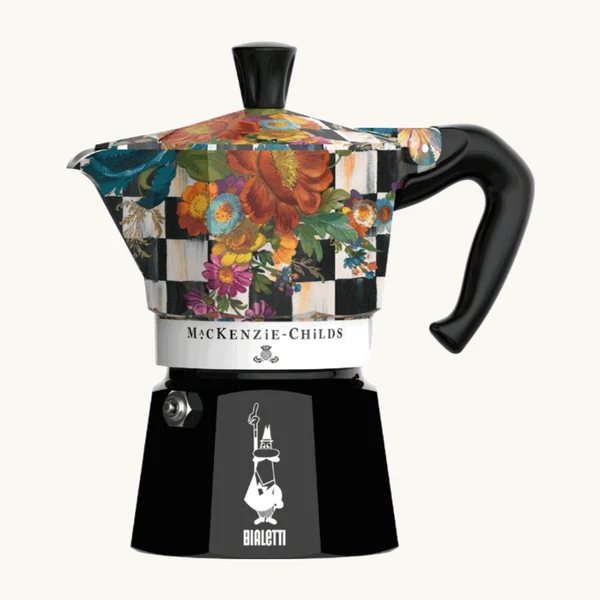
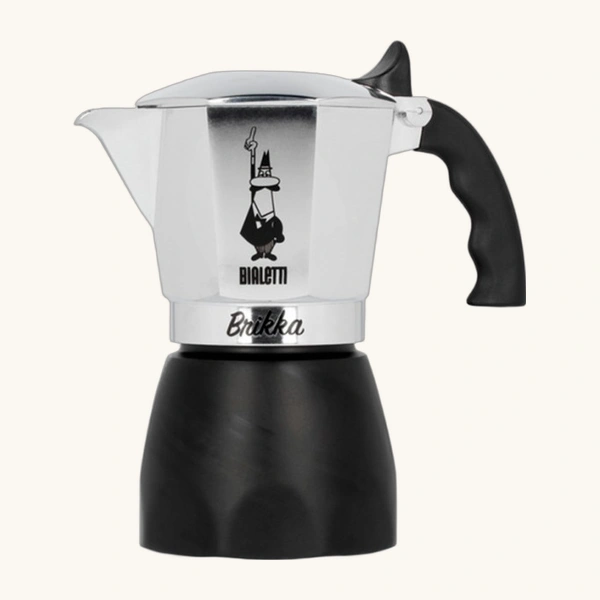
fix(gear): replace Bialetti with classic standard edition and Turin DF54 with fully assembled packshot (v1.20.7)

diff --git a/.agents/STATUS.md b/.agents/STATUS.md
@@ -25,6 +25,19 @@
    - Køre `npx cap sync android` og teste i Android Studio.
    - Pushe til GitHub, så Vercel automatisk deployer til `https://espressoflow-app.vercel.app/`.
 
+### 2026-10-20 -- Etape 77: Klassisk Standard Bialetti Moka Express & Fuldt Samlet Turin DF54 (v1.20.7)
+- **Klassisk Standard Bialetti (Farvel til Blomsterprint):**
+  - Erstattet MacKenzie-Childs blomsterudgaver med de originale, klassiske sølv-aluminium 8-kantede Bialetti-kander med original "L'omino coi baffi"-maskot (`bialetti-moka-3cup.webp` og `bialetti-moka-6cup.webp`).
+  - Opdateret Bialetti Brikka 4-Cup til autoriseret standardmodel med cremakolonne (`bialetti-brikka-4cup.webp`).
+- **Fuldt Samlet Turin DF54:**
+  - Erstattet usamlet drejeskive-foto med officielt 2200x2200 studio packshot, fuldt monteret med trætop, bælg, doseringskop i gaffel og mikrometerskive (`turin-df54.webp`).
+- **Audit Suite & Android:**
+  - `public/gear-audit.html` synkroniseret.
+  - `npm run build` passerer 100% (exit 0).
+  - Android synkroniseret via `npx cap sync android`.
+
+---
+
 ### 2026-10-20 -- Etape 76: Autentisk Decent DE1 med Drypbakke & BiRefNet Neural Matting (v1.20.6)
 - **Decent DE1 Producent-Packshot med Drypbakke:**
   - Erstattet "svævende" skelet-render af Decent DE1 uden drypbakke med officielt packshot indeholdende komplet bundkar, drypbakke med slids-stålrist, portafilter, damparm og monteret Android-tablet med aktive flow/trykkurver (`public/images/gear/machines/decent-de1.webp`).

diff --git a/CHANGELOG.md b/CHANGELOG.md
@@ -2,6 +2,17 @@
 
 Alle væsentlige ændringer og milepæle i Flowbean dokumenteres i dette dokument i henhold til Semantisk Versionering (SemVer).
 
+## [1.20.7] - 2026-10-20
+### Etape 77: Klassisk Standard Bialetti Moka Express & Fuldt Samlet Turin DF54
+- **Klassisk Standard Bialetti (Fjernelse af MacKenzie-Childs Blomsterudgaver):**
+  - **Bialetti Moka Express 3-Cup:** Erstattet blomstret specialudgave med det legendariske, originale 8-kantede polerede aluminiumsdesign med sort håndtag, "L'omino coi baffi"-maskot og "Moka Express"-gravering (`public/images/gear/brewers/bialetti-moka-3cup.webp`).
+  - **Bialetti Moka Express 6-Cup:** Opdateret til den autoriserede klassiske sølv-aluminium standardmodel (`public/images/gear/brewers/bialetti-moka-6cup.webp`).
+  - **Bialetti Brikka 4-Cup:** Opdateret til standardmodellen med original cremakolonne-trykventil og dual-finish hus (`public/images/gear/brewers/bialetti-brikka-4cup.webp`).
+- **Fuldt Samlet Turin DF54 Grinder:**
+  - Erstattet "skilt ad"-foto på drejeskive med 2200x2200 fabriks-packshot, fuldt samlet med trætop, silikonebælg, doseringskop i gaffelholder og mikrometer-skala på `#FAF7F2` (`public/images/gear/grinders/turin-df54.webp`).
+- **Audit Suite & Android:**
+  - Opdateret `public/gear-audit.html` og synkroniseret med Android wrapper.
+
 ## [1.20.6] - 2026-10-20
 ### Etape 76: Autentisk Decent DE1 med Drypbakke & BiRefNet Neural Matting
 - **Decent DE1 med Komplet Drypbakke & Tablet:**

diff --git a/ARCHITECTURE.md b/ARCHITECTURE.md
@@ -1,7 +1,7 @@
 # 🗺 FLOWBEAN – APPENS PROCESOVERBLIK & ARKITEKTURKORT
 
 > **Dokumentstatus:** Aktivt Systemkort (Single Source of Architecture Truth)  
-> **Gældende version:** v1.20.6 (Authentic Gear Studio Packshots, Complete DE1 with Drip Tray & Tablet, Dual-Baratza Models & Gear Audit Suite)  
+> **Gældende version:** v1.20.7 (Standard Iconic Bialetti Moka Express, Fully Assembled Turin DF54, Complete Decent DE1 & BiRefNet Neural Matting)  
 > **Formål:** Dette dokument fungerer som det overordnede arkitektur- og proceskort for hele Flowbean (tidligere Espresso Flow). Det skal konsulteres før enhver ny funktion eller ændring påbegyndes, og opdateres ved enhver strukturel tilføjelse for at forhindre regressioner, utilsigtede sideeffekter og systemsvagheder.
 
 ---
